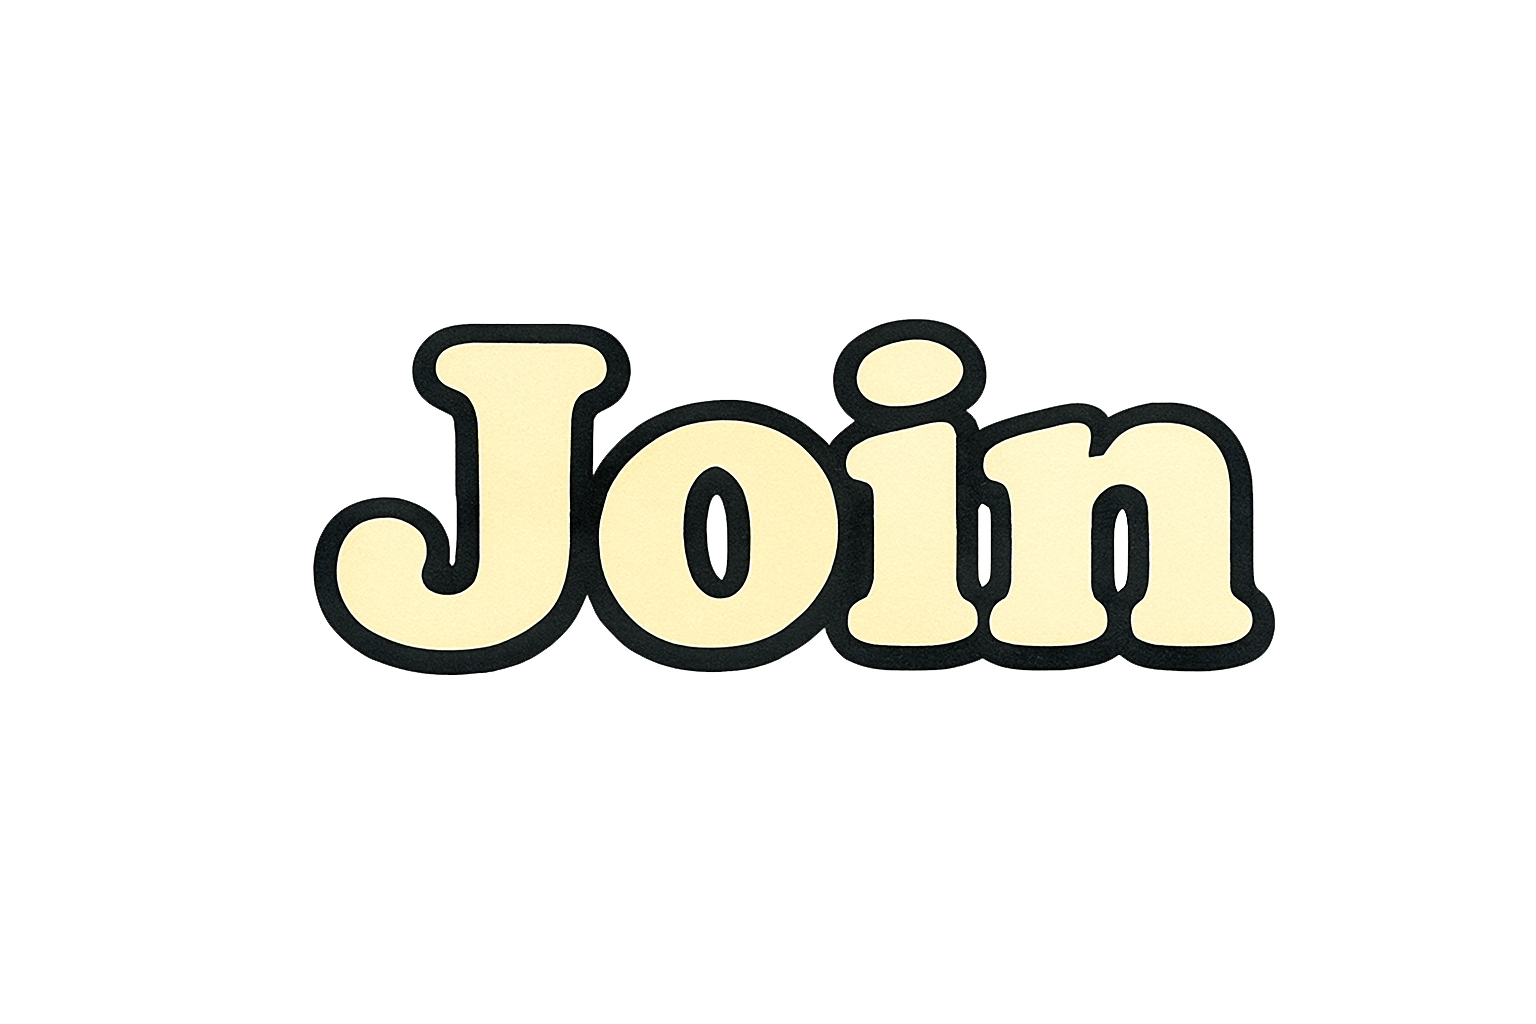
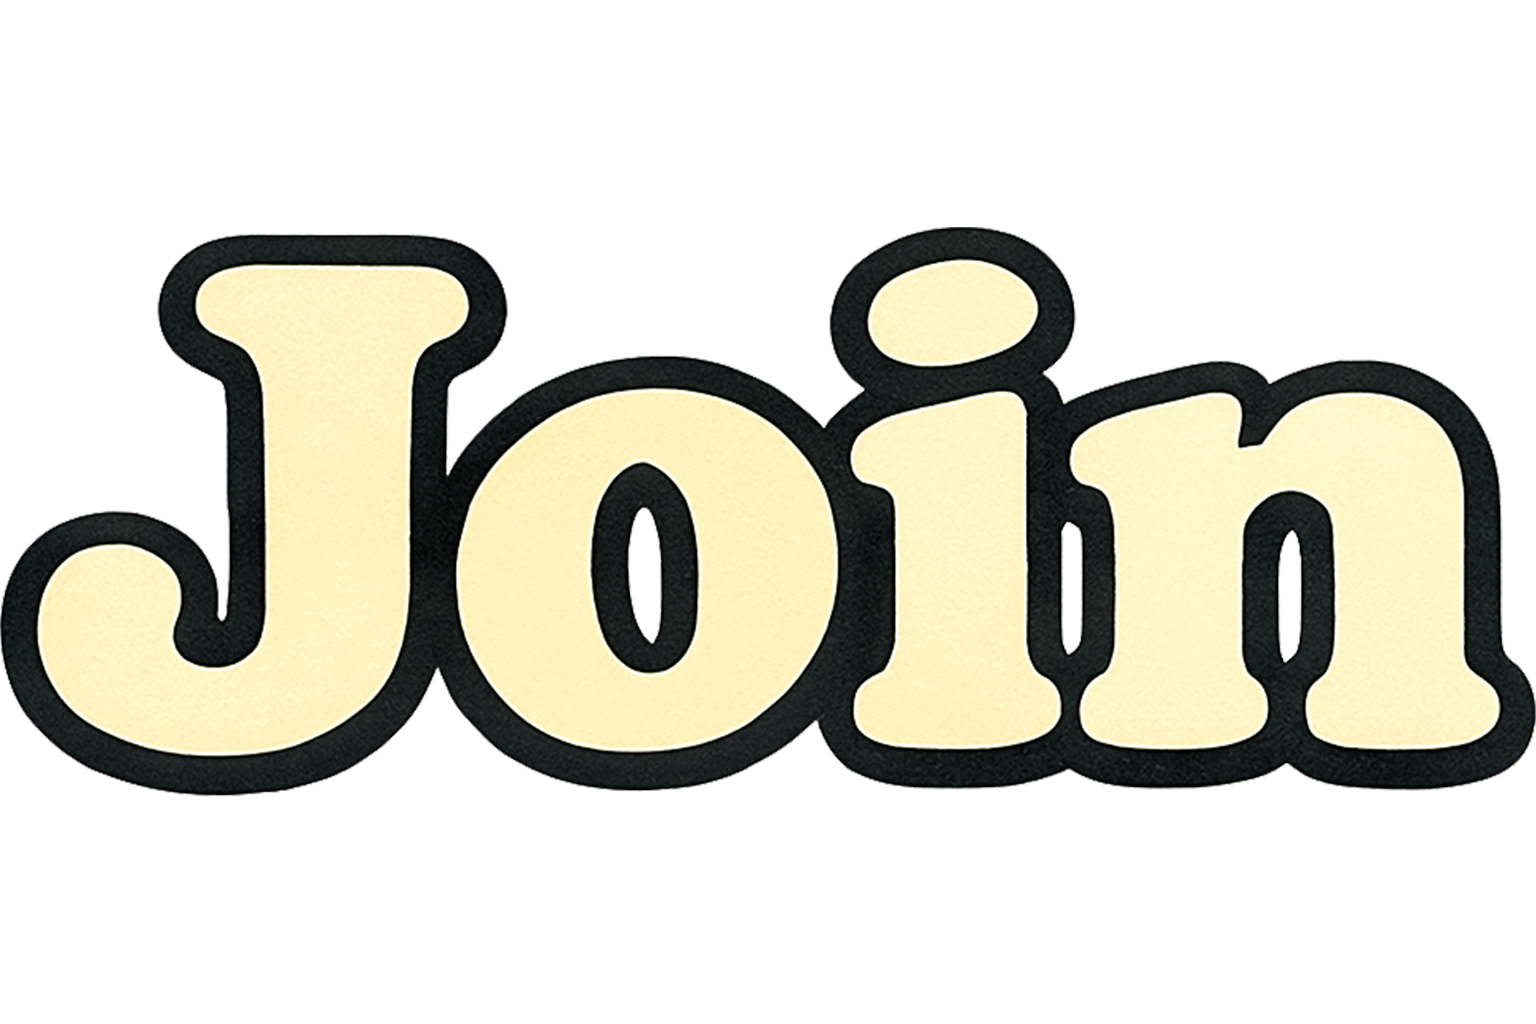
优化按钮图案

diff --git a/src/main/java/org/stickbadminton/gamecomponent/RoomNetJoin.java b/src/main/java/org/stickbadminton/gamecomponent/RoomNetJoin.java
@@ -52,7 +52,8 @@ public class RoomNetJoin extends Room {
 
         // 创建房间（默认请求 p1）
         btnCreateHost = new UIImageButton("button_create.png");
-        addUiObject(btnCreateHost, 400, 180);
+        addUiObject(btnCreateHost, 395, 180);
+
         btnCreateHost.setOnAction(e -> {
             SoundPlay.playSound("button_select.mp3", 100);
             onCreateHost();
@@ -60,7 +61,7 @@ public class RoomNetJoin extends Room {
 
         // 加入房间（进入加入模式）
         btnJoin = new UIImageButton("button_join.png");
-        addUiObject(btnJoin, 400, 250);
+        addUiObject(btnJoin, 415, 250);
         btnJoin.setOnAction(e -> {
             SoundPlay.playSound("button_select.mp3", 100);
             enterJoinMode();
